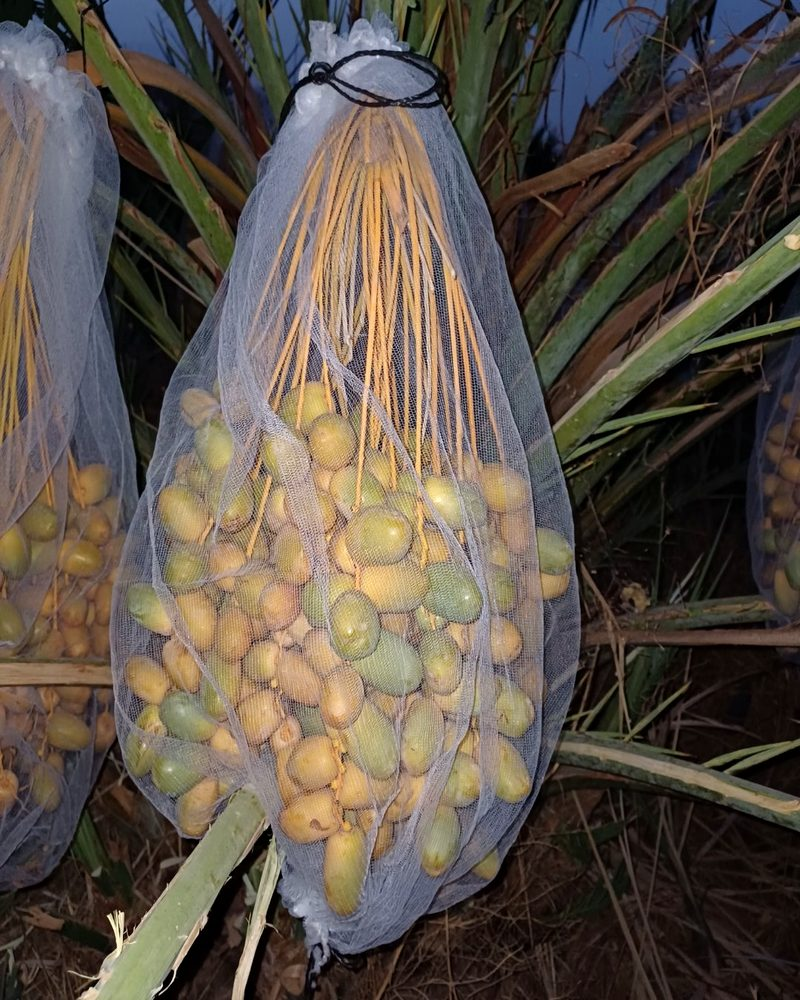
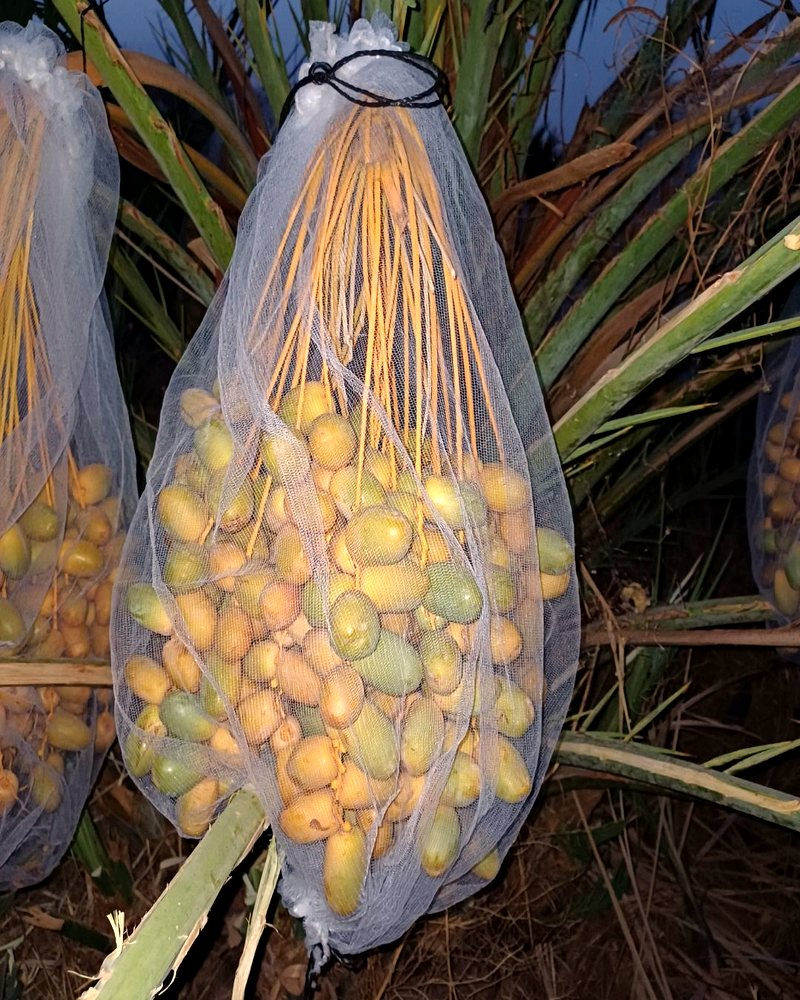
Photos reelles galerie Majhoul + prix 84 DH carte Assiane

diff --git a/index.html b/index.html
@@ -491,7 +491,8 @@ footer .logo{font-size:1.4rem;display:inline-block;margin-bottom:10px}
       <div class="card-body" style="text-align:center">
         <span class="flash-resa" data-i18n="as_flash">🔥 RÉCOLTE DÈS LE 15 SEPTEMBRE</span>
         <h3 data-i18n="as_title">Dattes Assiane</h3>
-        <p data-i18n="as_teaser" style="margin:8px 0 16px;opacity:.85">La première de la saison — fondante, douce, fraîche de l'oasis.</p>
+        <p data-i18n="as_teaser" style="margin:8px 0 6px;opacity:.85">La première de la saison — fondante, douce, fraîche de l'oasis.</p>
+        <p data-i18n="as_price" style="color:#C9A227;font-weight:700;font-size:1.15rem;margin:0 0 14px">84 DH / kg</p>
         <a href="assiane.html" class="btn btn-resa btn-sm" data-i18n="as_btn">🔥 Réserver</a>
       </div>
     </div>
@@ -652,7 +653,7 @@ fr:{
   trust_kicker:"✦ Pourquoi Tiyni Gold",trust_title:"Parce que nous sommes les producteurs, pas des revendeurs",t1_t:"Nos propres palmeraies",t1_p:"Tout ce que nous vendons vient de nos jardins, à Figuig. Nous sommes Figuiguais, de père en fils — pas des intermédiaires.",t2_t:"Une confiance de longue date",t2_p:"Notre notoriété parle depuis des années — et nos clients ne nous quittent jamais. C'est ça, la vraie preuve.",t3_t:"Fraîcheur garantie",t3_p:"Nos dattes ne passent jamais au frigo avant d'arriver chez vous. Une fois reçues, mettez-les au froid : elles restent fraîches, même goût, même texture, même couleur — rien ne change.",t4_t:"Direct de l'oasis à votre porte",t4_p:"Pas de stockage, pas de transit intermédiaire. Nous récoltons, nous emballons, nous vous livrons — c'est tout.",trust_sig:"— Tiyni Gold, Figuig. De père en fils, au service de la vraie datte.",
   auth_kicker:"✦ Attention aux imitations",auth_title:"La vraie Aziza ne pousse qu'à Figuig",auth_p1:"Vous trouverez peut-être ailleurs des dattes vendues sous le nom « Aziza » — un prénom amazigh que n'importe qui peut utiliser.",auth_p2:"Mais Aziza n'est pas qu'un nom : c'est une variété unique, née de nos palmeraies de Figuig, avec un goût qu'aucune autre datte ne peut reproduire.",auth_p3:"Qui y a goûté une fois ne mange plus jamais une autre datte.",
   mj_kicker:"✦ Sur demande uniquement",mj_sec_title:"Majhoul — la reine des dattes",mj_sec_sub:"Charnue, généreuse, fondante — les photos parlent d'elles-mêmes : regardez le calibre sur l'arbre.",mj_note:"Le Majhoul ne se réserve pas en ligne — chaque commande se prépare sur mesure. Contactez-nous directement.",mj_wa:"💬 Commander le Majhoul sur WhatsApp",
-  as_flash:"🔥 RÉCOLTE DÈS LE 15 SEPTEMBRE",as_title:"Dattes Assiane",as_teaser:"La première de la saison — fondante, douce, fraîche de l'oasis.",as_btn:"🔥 Réserver",
+  as_flash:"🔥 RÉCOLTE DÈS LE 15 SEPTEMBRE",as_title:"Dattes Assiane",as_teaser:"La première de la saison — fondante, douce, fraîche de l'oasis.",as_price:"84 DH / kg",as_btn:"🔥 Réserver",
   mj_flash:"🔥 SUR DEMANDE — RÉCOLTE DÈS LE 15 SEPTEMBRE",mj_title2:"Dattes Majhoul",mj_teaser:"La reine des dattes — charnue, généreuse, d'un calibre exceptionnel.",mj_btn2:"🔥 Réserver",mj_price:"169 DH / kg",
   az_flash2:"⚡ RÉCOLTE FIN SEPTEMBRE — 90% DÉJÀ RÉSERVÉ",az_title2:"Dattes Aziza",az_teaser:"La datte la plus rare et la plus chère du Maroc — et elle le vaut.",az_btn2:"🔥 Réserver",
   mj_flash:"🔥 RÉCOLTE DÈS LE 15 SEPTEMBRE",mj_title2:"Dattes Majhoul",mj_teaser:"La reine des dattes — charnue, généreuse, inoubliable.",mj_btn2:"🔥 Réserver",
@@ -752,7 +753,7 @@ ar:{
   trust_kicker:"✦ علاش Tiyni Gold",trust_title:"حيت حنا المنتجين، ماشي غير بائعين",t1_t:"النخيل ديالنا",t1_p:"كلشي لي كنبيعو كيجي من جناناتنا ففجيج. حنا فجيجيين، من الأب للجد — ماشي وسطاء.",t2_t:"ثقة منذ سنوات",t2_p:"سمعتنا كتتكلم منذ سنين — وزبنائنا ما كيبدلوناش أبداً. هادشي هو الدليل الحقيقي.",t3_t:"الطزاجة مضمونة",t3_p:"تمورنا ما كتدخلش للثلاجة قبل ما توصل ليك. ملي توصلك، ديرها فالفريجي: كتبقى طازجة، نفس المذاق، نفس القوام، نفس اللون — والو ما كيتبدل.",t4_t:"من الواحة لباب دارك",t4_p:"بلا تخزين، بلا وسطاء. كنقطفو، كنغلفو، كنوصلو ليك — سالينا.",trust_sig:"— Tiyni Gold، فجيج. من الأب للجد، فخدمة التمرة الحقيقية.",
   auth_kicker:"✦ انتبهوا من التقليد",auth_title:"أزيزا الحقيقية لا تنبت إلا في فجيج",auth_p1:"قد تجدون في أماكن أخرى تمورًا تُباع باسم «أزيزا» — وهو اسم أمازيغي يمكن لأيٍّ كان أن يستعمله.",auth_p2:"لكن أزيزا ليست مجرد اسم، بل هي صنفٌ فريد وُلد في نخيل واحة فجيج، بطعمٍ لا تضاهيه أي تمرة أخرى في العالم.",auth_p3:"من ذاقها مرةً واحدة، لم يعد يأكل بعدها أي تمرة سواها.",
   mj_kicker:"✦ بالطلب فقط",mj_sec_title:"مجهول — ملكة التمور",mj_sec_sub:"لحيمة، سخية، ذائبة — الصور تتكلم عن نفسها: انظروا إلى الحجم على النخلة.",mj_note:"المجهول لا يُحجز عبر الموقع — كل طلب يُحضَّر خصيصاً. تواصلوا معنا مباشرة.",mj_wa:"💬 اطلب المجهول عبر واتساب",
-  as_flash:"🔥 الحصاد من 15 شتنبر",as_title:"تمور العصيان",as_teaser:"الأولى في الموسم — ذائبة، حلوة، طازجة من الواحة.",as_btn:"🔥 احجز الآن",
+  as_flash:"🔥 الحصاد من 15 شتنبر",as_title:"تمور العصيان",as_teaser:"الأولى في الموسم — ذائبة، حلوة، طازجة من الواحة.",as_price:"84 درهم / كغ",as_btn:"🔥 احجز الآن",
   mj_flash:"🔥 بالطلب فقط — الحصاد من 15 شتنبر",mj_title2:"تمور مجهول",mj_teaser:"ملكة التمور — لحيمة، سخية، بحجم استثنائي.",mj_btn2:"🔥 احجز الآن",mj_price:"169 درهم / كغ",
   az_flash2:"⚡ الحصاد آخر شتنبر — 90% محجوزة",az_title2:"تمور أزيزا",az_teaser:"أندر وأغلى تمرة في المغرب — وتستاهل ثمنها.",az_btn2:"🔥 احجز الآن",
   mj_flash:"🔥 الحصاد من 15 شتنبر",mj_title2:"تمور مجهول",mj_teaser:"ملكة التمور — لحمية، سخية، لا تُنسى.",mj_btn2:"🔥 احجز الآن",
@@ -852,7 +853,7 @@ en:{
   trust_kicker:"✦ Why Tiyni Gold",trust_title:"Because we are the growers, not resellers",t1_t:"Our own palm groves",t1_p:"Everything we sell comes from our own gardens in Figuig. We are Figuigui, father to son — not middlemen.",t2_t:"Trusted for years",t2_p:"Our reputation speaks for years — and our customers never leave us. That is the real proof.",t3_t:"Freshness guaranteed",t3_p:"Our dates never go in the fridge before reaching you. Once received, put them in the cold: they stay fresh — same taste, same texture, same colour. Nothing changes.",t4_t:"From the oasis straight to your door",t4_p:"No storage, no middlemen. We harvest, we pack, we deliver — that is all.",trust_sig:"— Tiyni Gold, Figuig. Father to son, serving the real date.",
   auth_kicker:"✦ Beware of imitations",auth_title:"True Aziza grows only in Figuig",auth_p1:"You may find dates sold elsewhere under the name ‘Aziza’ — an Amazigh name anyone can use.",auth_p2:"But Aziza is not just a name: it is a unique variety, born in our Figuig palm groves, with a taste no other date in the world can match.",auth_p3:"Whoever tastes it once never eats another date again.",
   mj_kicker:"✦ On request only",mj_sec_title:"Majhoul — the queen of dates",mj_sec_sub:"Fleshy, generous, melting — the photos speak for themselves: look at the size on the palm.",mj_note:"Majhoul is not reserved online — every order is prepared to measure. Contact us directly.",mj_wa:"💬 Order Majhoul on WhatsApp",
-  as_flash:"🔥 HARVEST FROM SEPTEMBER 15",as_title:"Assiane Dates",as_teaser:"First of the season — melt-in-your-mouth, sweet, fresh from the oasis.",as_btn:"🔥 Reserve",
+  as_flash:"🔥 HARVEST FROM SEPTEMBER 15",as_title:"Assiane Dates",as_teaser:"First of the season — melt-in-your-mouth, sweet, fresh from the oasis.",as_price:"84 MAD / kg",as_btn:"🔥 Reserve",
   mj_flash:"🔥 ON REQUEST — HARVEST FROM SEPT 15",mj_title2:"Majhoul Dates",mj_teaser:"The queen of dates — fleshy, generous, exceptional size.",mj_btn2:"🔥 Reserve",mj_price:"169 MAD / kg",
   az_flash2:"⚡ HARVEST LATE SEPTEMBER — 90% ALREADY RESERVED",az_title2:"Aziza Dates",az_teaser:"The rarest and most precious date in Morocco — and worth it.",az_btn2:"🔥 Reserve",
   mj_flash:"🔥 HARVEST FROM SEPTEMBER 15",mj_title2:"Majhoul Dates",mj_teaser:"The queen of dates — fleshy, generous, unforgettable.",mj_btn2:"🔥 Reserve",
@@ -952,7 +953,7 @@ es:{
   trust_kicker:"✦ Por qué Tiyni Gold",trust_title:"Porque somos los productores, no revendedores",t1_t:"Nuestros propios palmerales",t1_p:"Todo lo que vendemos viene de nuestros jardines en Figuig. Somos de Figuig, de padre a hijo — no intermediarios.",t2_t:"Confianza desde hace años",t2_p:"Nuestra reputación habla desde hace años — y nuestros clientes nunca nos dejan. Esa es la verdadera prueba.",t3_t:"Frescura garantizada",t3_p:"Nuestros dátiles nunca pasan por la nevera antes de llegar a ti. Una vez recibidos, métalos al frío: siguen frescos — mismo sabor, misma textura, mismo color. Nada cambia.",t4_t:"Del oasis a tu puerta",t4_p:"Sin almacenamiento, sin intermediarios. Cosechamos, envasamos, entregamos — y ya.",trust_sig:"— Tiyni Gold, Figuig. De padre a hijo, al servicio del dátil auténtico.",
   auth_kicker:"✦ Cuidado con las imitaciones",auth_title:"La verdadera Aziza solo crece en Figuig",auth_p1:"Quizá encuentre en otros sitios dátiles vendidos con el nombre «Aziza» — un nombre amazigh que cualquiera puede usar.",auth_p2:"Pero Aziza no es solo un nombre: es una variedad única, nacida en nuestros palmerales de Figuig, con un sabor que ningún otro dátil del mundo puede igualar.",auth_p3:"Quien la prueba una vez, no vuelve a comer otro dátil.",
   mj_kicker:"✦ Solo bajo pedido",mj_sec_title:"Majhoul — la reina de los dátiles",mj_sec_sub:"Carnoso, generoso, fundente — las fotos hablan por sí solas: mire el calibre en la palmera.",mj_note:"El Majhoul no se reserva en línea — cada pedido se prepara a medida. Contáctenos directamente.",mj_wa:"💬 Pedir Majhoul por WhatsApp",
-  as_flash:"🔥 COSECHA DESDE EL 15 DE SEPTIEMBRE",as_title:"Dátiles Assiane",as_teaser:"La primera de la temporada — tierna, dulce, fresca del oasis.",as_btn:"🔥 Reservar",
+  as_flash:"🔥 COSECHA DESDE EL 15 DE SEPTIEMBRE",as_title:"Dátiles Assiane",as_teaser:"La primera de la temporada — tierna, dulce, fresca del oasis.",as_price:"84 MAD / kg",as_btn:"🔥 Reservar",
   mj_flash:"🔥 BAJO PEDIDO — COSECHA DESDE EL 15 DE SEPTIEMBRE",mj_title2:"Dátiles Majhoul",mj_teaser:"La reina de los dátiles — carnoso, generoso, de calibre excepcional.",mj_btn2:"🔥 Reservar",mj_price:"169 MAD / kg",
   az_flash2:"⚡ COSECHA FIN DE SEPTIEMBRE — 90% YA RESERVADO",az_title2:"Dátiles Aziza",az_teaser:"El dátil más raro y preciado de Marruecos — y lo vale.",az_btn2:"🔥 Reservar",
   mj_flash:"🔥 COSECHA DESDE EL 15 DE SEPTIEMBRE",mj_title2:"Dátiles Majhoul",mj_teaser:"La reina de los dátiles — carnosa, generosa, inolvidable.",mj_btn2:"🔥 Reservar",
